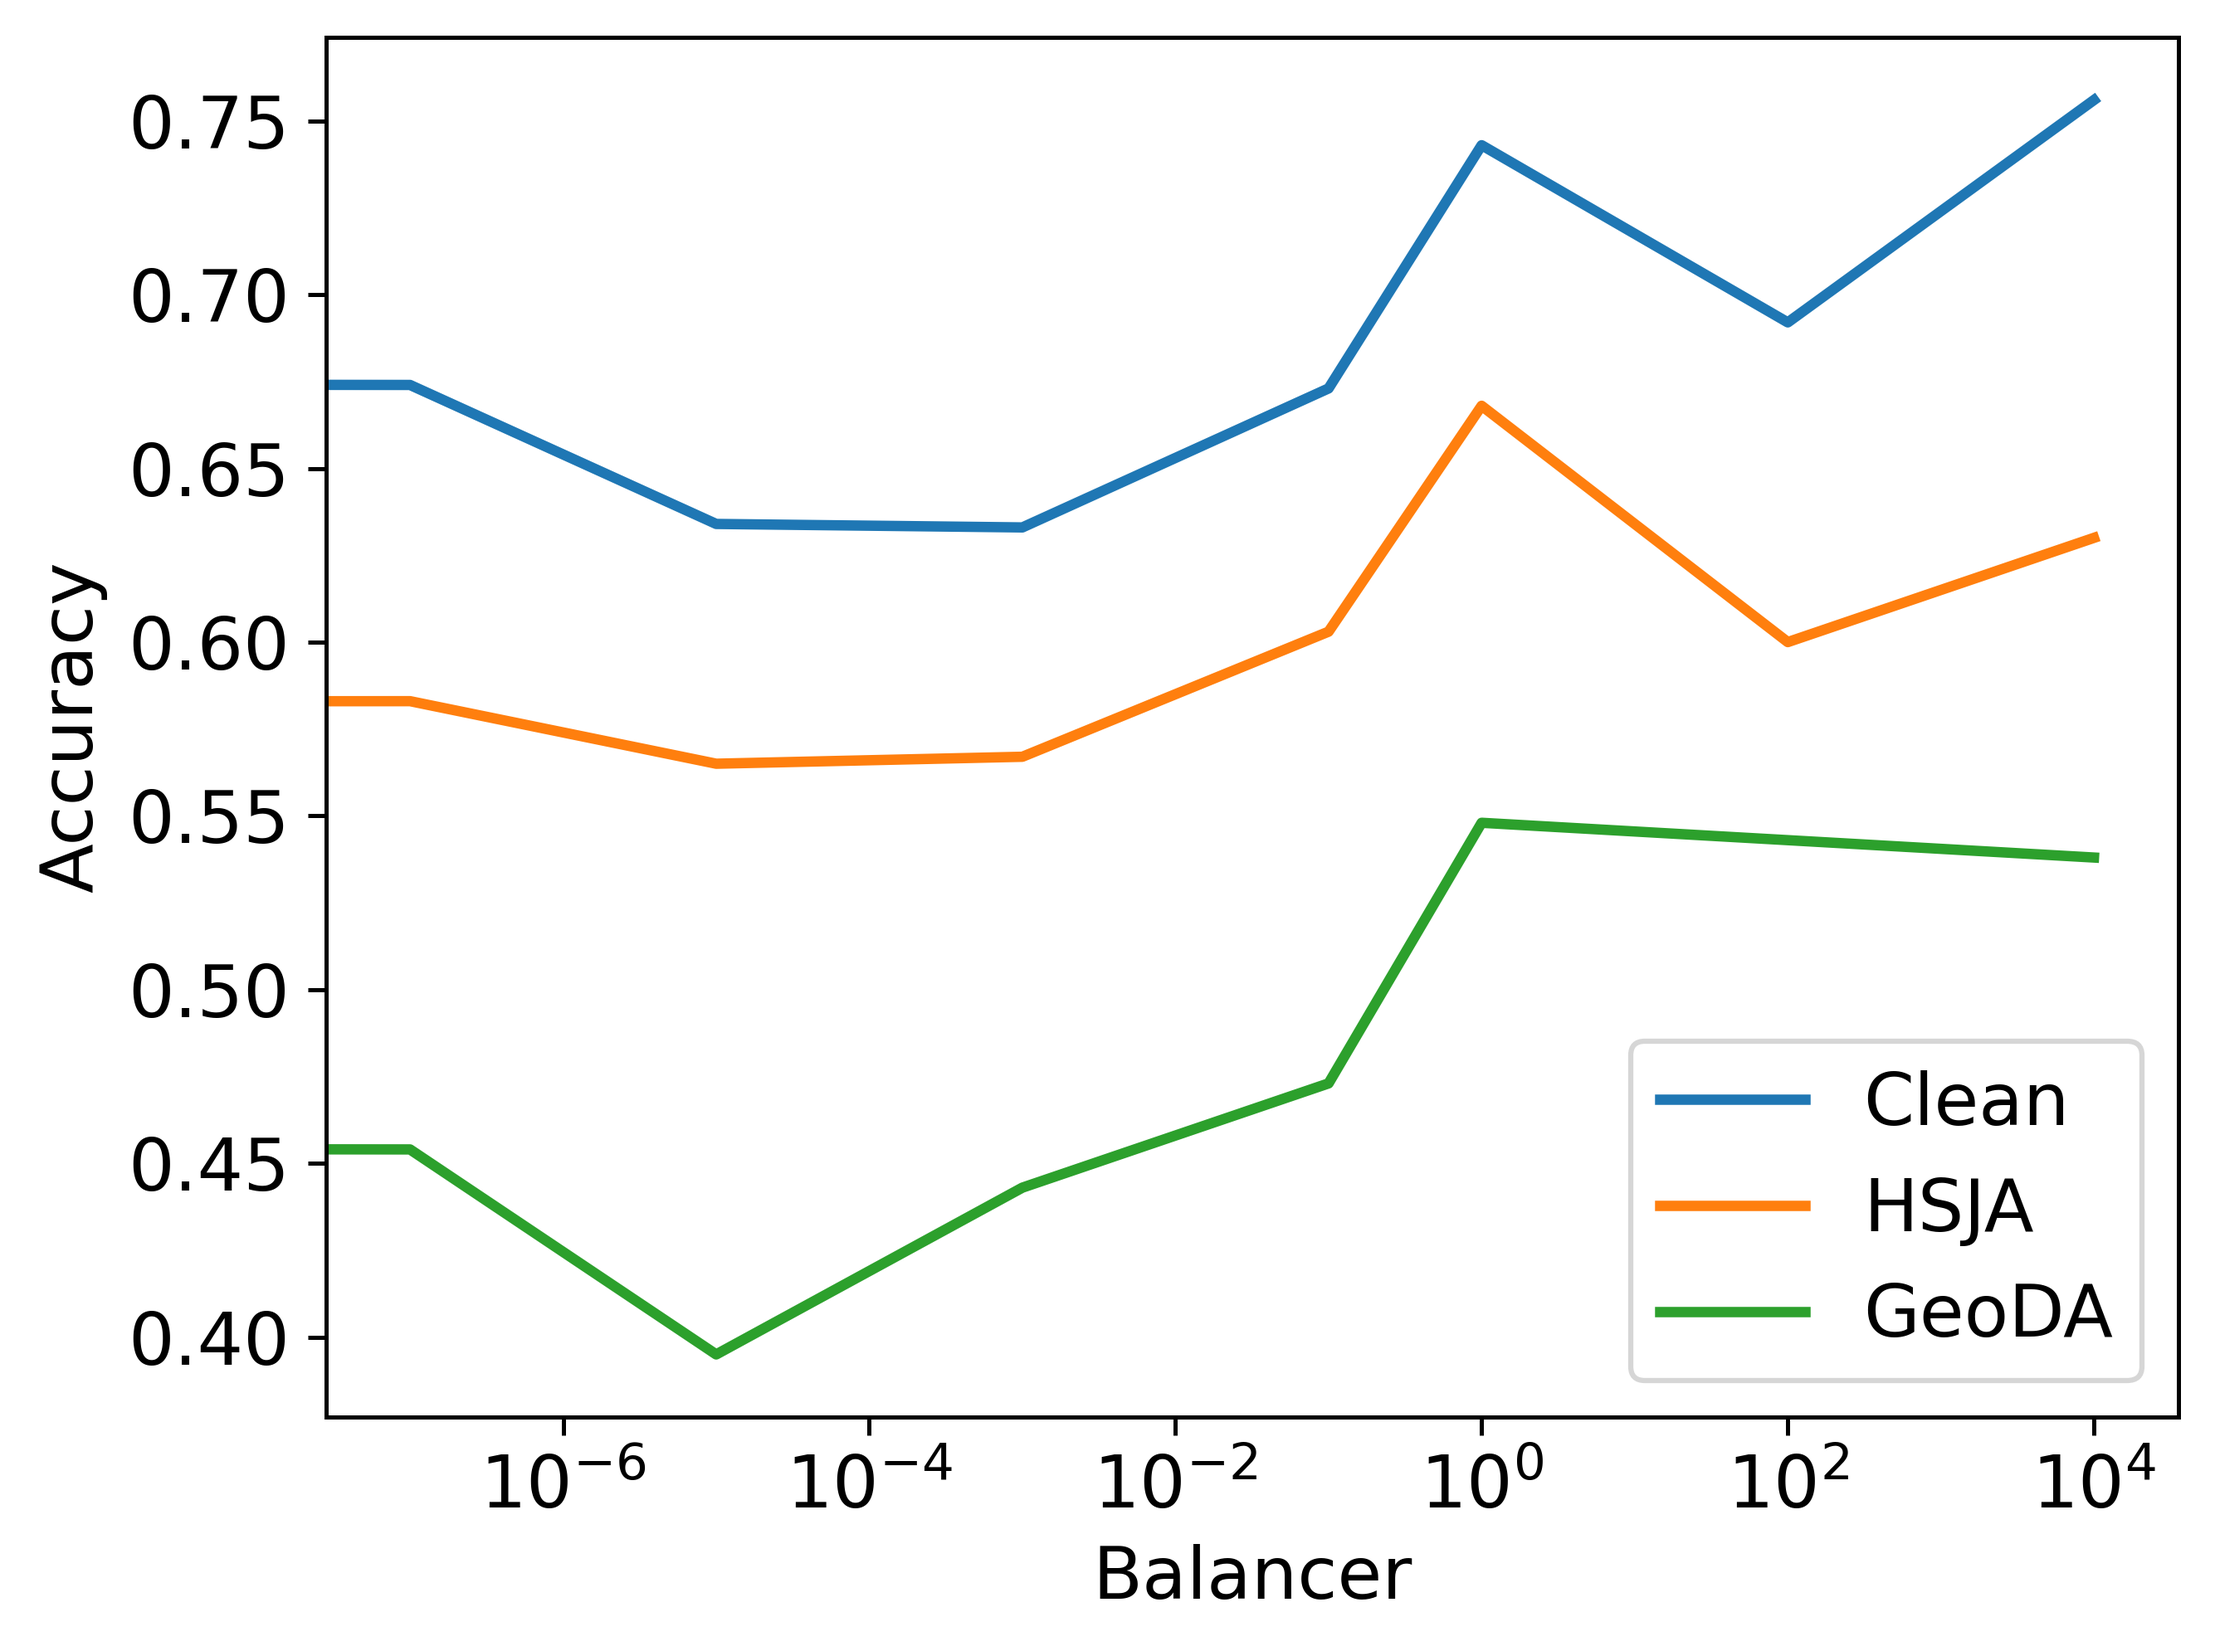
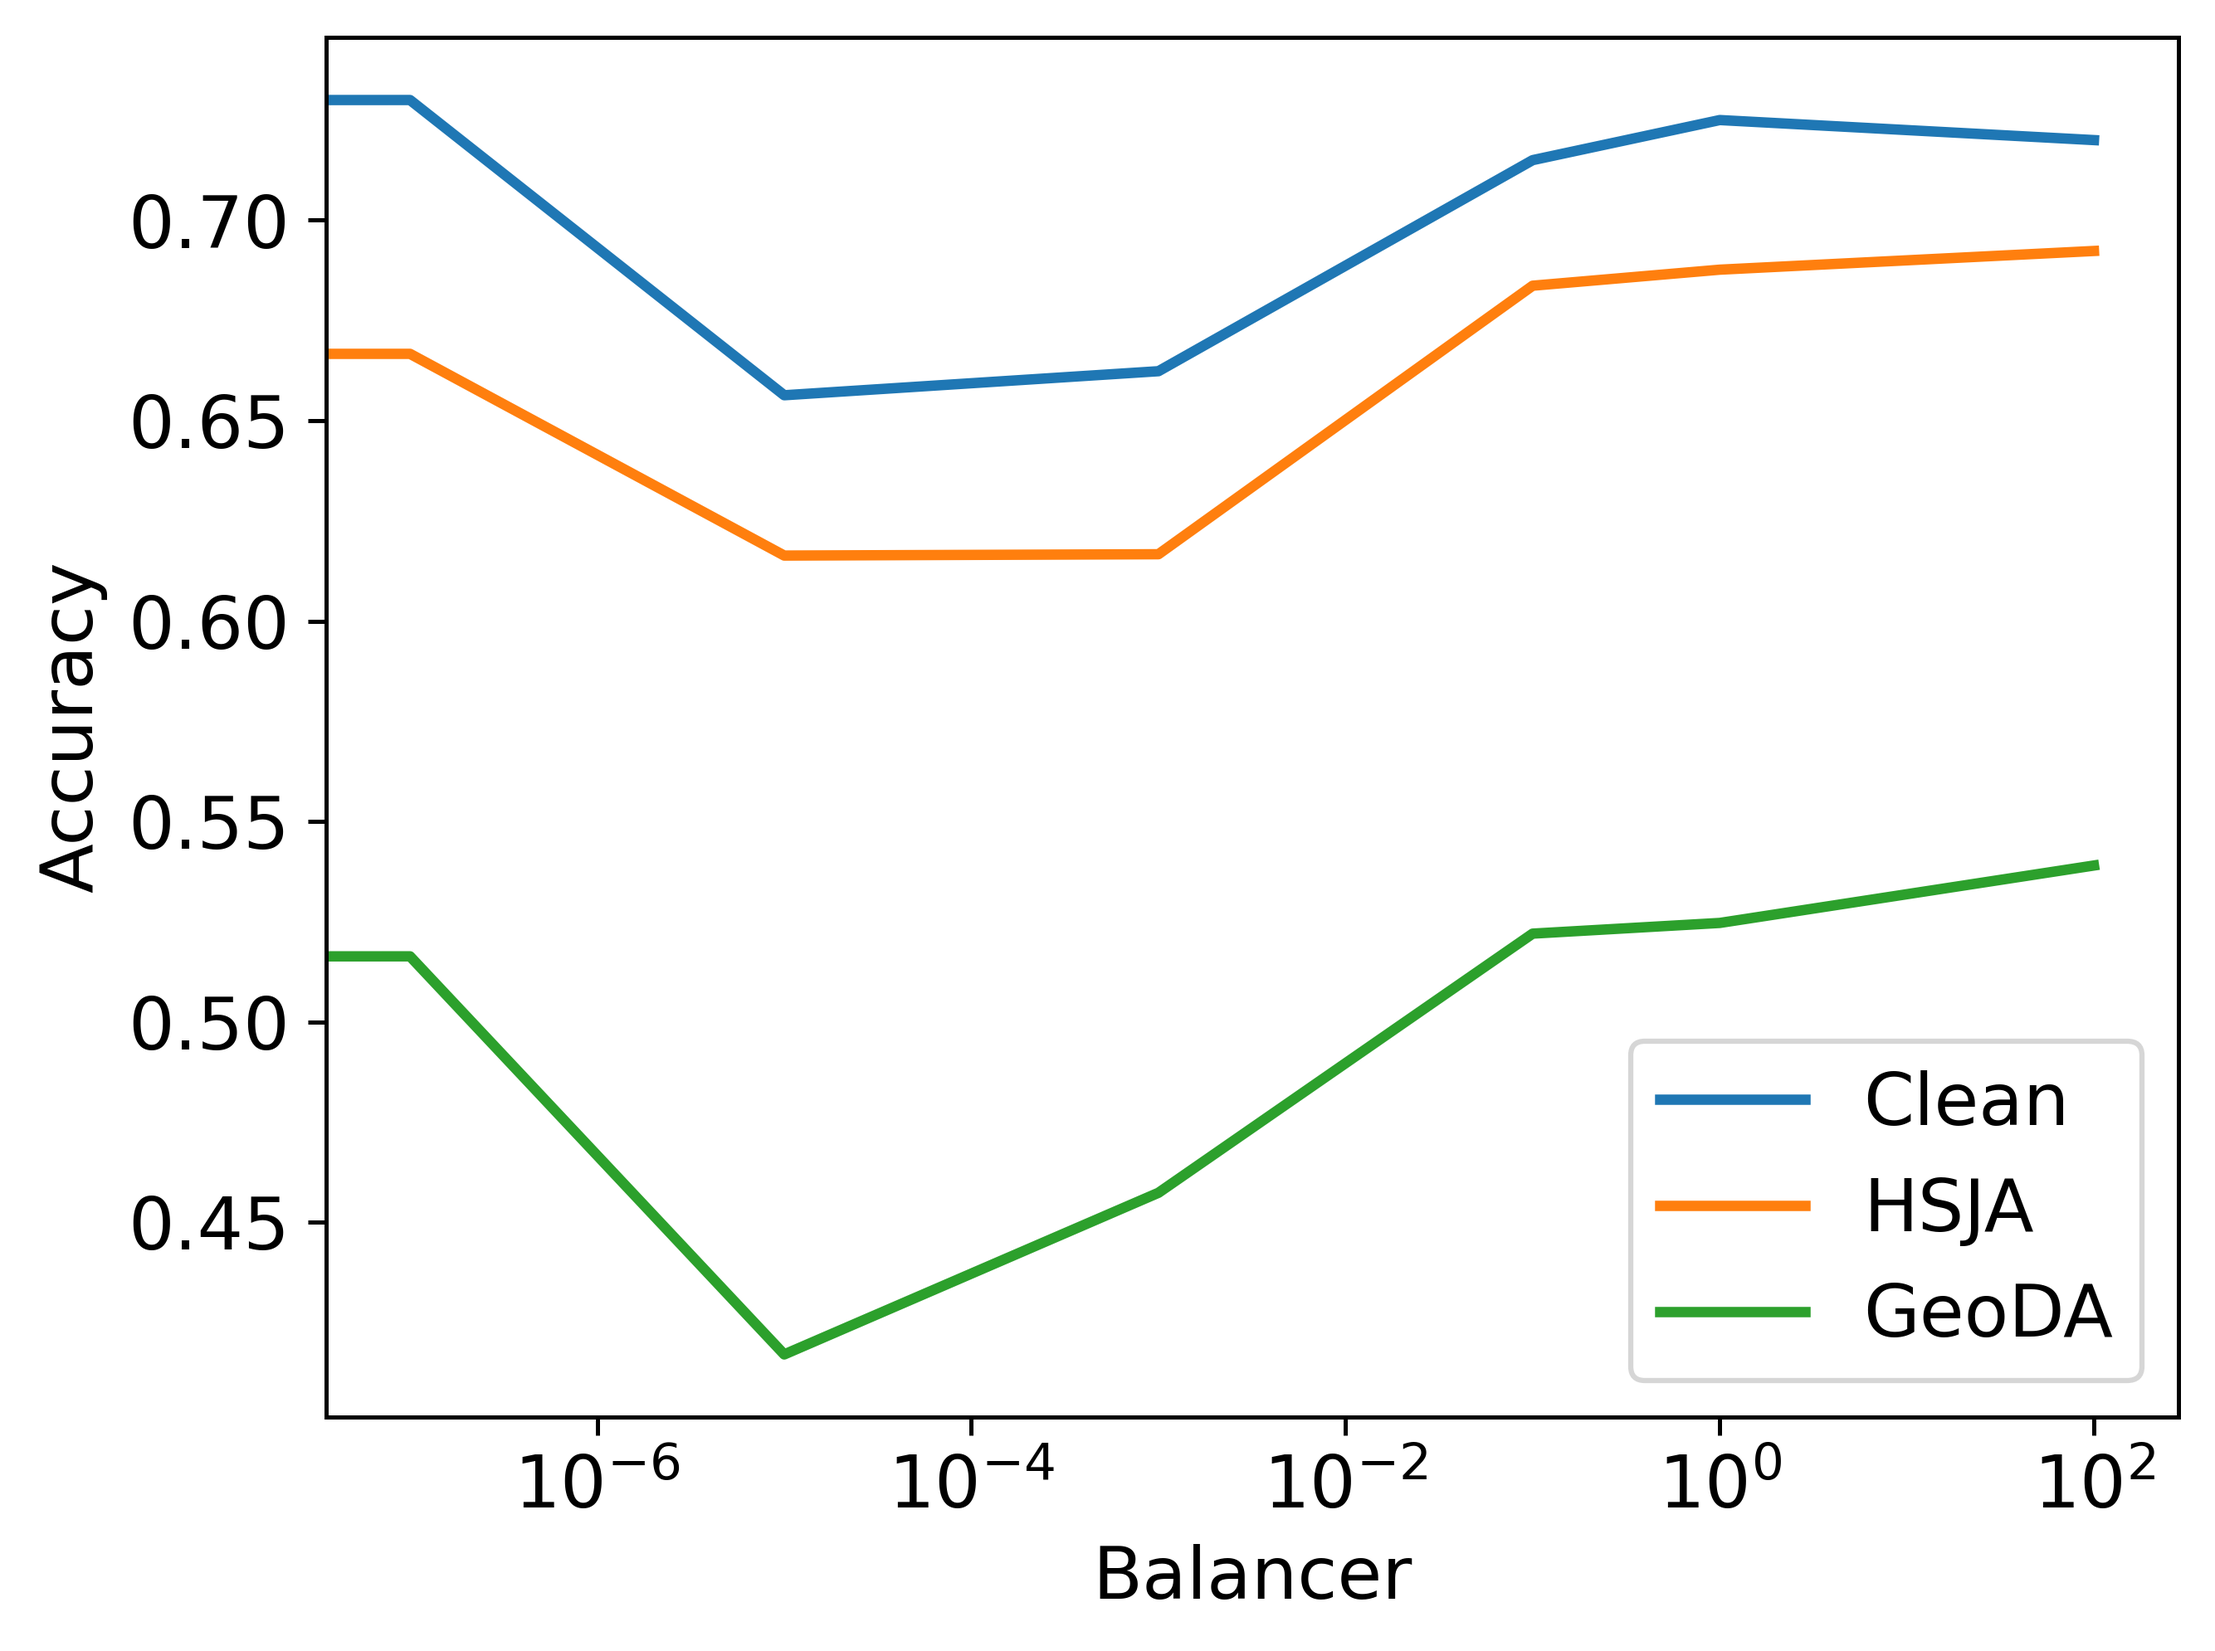
add tinyimagenet

diff --git a/train_evaluation.py b/train_evaluation.py
@@ -90,6 +90,13 @@ def create_adversarial_examples(model, x_data, y_data, epsilon=0.1, attack = 'fg
             adversary.attacks_to_run = ['apgd-dlr']
             x_adv, y_adv = adversary.run_standard_evaluation(torch_testX, torch_testY, bs=len(original_image)
                                                              , return_labels=True)
+            perturbed_image = np.moveaxis(x_adv.cpu().numpy(), 1, 3).tolist()       
+        elif(attack == 'square'):
+            torch_testX = torch.from_numpy( np.transpose(original_image, (0, 3, 1, 2)) ).float().cuda()
+            torch_testY = torch.from_numpy( true_label ).long().cuda()
+            adversary.attacks_to_run = ['square']
+            x_adv, y_adv = adversary.run_standard_evaluation(torch_testX, torch_testY, bs=len(original_image)
+                                                             , return_labels=True)
             perturbed_image = np.moveaxis(x_adv.cpu().numpy(), 1, 3).tolist()        
         elif(attack == 'random'):
             perturbed_image = random_noise(model, tf.convert_to_tensor(original_image), epsilon)
@@ -121,7 +128,7 @@ def compute_robust_accuracy(model, x_data, y_data, epsilon=0.1, attack = 'fgsm',
             # print(attacker.batch_size)
             log = attacker.run(x_batch, y_batch, pt_model, False, None)
         output = attacker.result()["total_failures"] / len(x_data)
-    else: # Whitebox attack
+    else: # Whitebox attack + Square (blackbox)
         new_dataset = create_adversarial_examples(model, x_data, y_data, epsilon, attack, batch_size, norm)
         if(attack == 'cw_l2'):
             revised_new_dataset = []
@@ -157,10 +164,10 @@ def plot_accuracy(results, path, attack_type):
     else:
         # plt.plot(results['balancers'],np.mean(results['rays_accuracy'], axis = 0))
         plt.plot(results['balancers'],np.mean(results['hsja_accuracy'], axis = 0))
-        plt.plot(results['balancers'],np.mean(results['geoda_accuracy'], axis = 0))
+        plt.plot(results['balancers'],np.mean(results['square_accuracy'], axis = 0))
         # plt.plot(results['balancers'],np.mean(results['signflip_accuracy'], axis = 0))
         plt.setp(plt.gca().lines, linewidth=2)
-        plt.legend(['Clean', 'HSJA', 'GeoDA'])
+        plt.legend(['Clean', 'HSJA', 'Sqaure'])
     plt.xscale('log')
     plt.xlabel('Balancer')
     plt.ylabel('Accuracy')
@@ -238,15 +245,16 @@ def test(balancers, n_runs, max_index, folder, result_folder, get_model, x_train
         }
         result_folder += f'/nruns={n_runs}_maxindex={max_index}_eps={epsilon}_batchsize={batch_size}'
     else:
-        info_list = ['accuracy', 'random_accuracy', 'geoda_accuracy', 'hsja_accuracy'
+        info_list = ['accuracy', 'random_accuracy', 'geoda_accuracy', 'hsja_accuracy','square_accuracy'
                     ,'mean_max']
-        acc_attacks = ['random_accuracy', 'geoda_accuracy', 'hsja_accuracy']
+        acc_attacks = ['random_accuracy', 'square_accuracy', 'hsja_accuracy']
         acc2attack = {
             'random_accuracy': 'random',
             'rays_accuracy': 'rays',
             'hsja_accuracy': 'hsja',
             'geoda_accuracy': 'geoda',
-            'signflip_accuracy': 'signflip'
+            'signflip_accuracy': 'signflip',
+            'square_accuracy': 'square'
         }
         result_folder += f'/nruns={n_runs}_maxindex={max_index}_eps={epsilon}_batchsize={batch_size}/blackbox'
     accuracy_score_path = result_folder + '/accuracy_scores.pkl'
@@ -264,9 +272,6 @@ def test(balancers, n_runs, max_index, folder, result_folder, get_model, x_train
     path.mkdir(parents=True, exist_ok=True)
     results_path = Path(result_folder)
     results_path.mkdir(parents=True, exist_ok=True)
-    reduce_lr = ReduceLROnPlateau(monitor='val_loss', factor=0.5,
-                              patience=5, min_lr=0.0001)
-    early_stop = EarlyStopping(monitor='val_loss', patience=10, restore_best_weights=True)
     for run in range(n_runs):
         tmp_results = {}
         for info in info_list:
